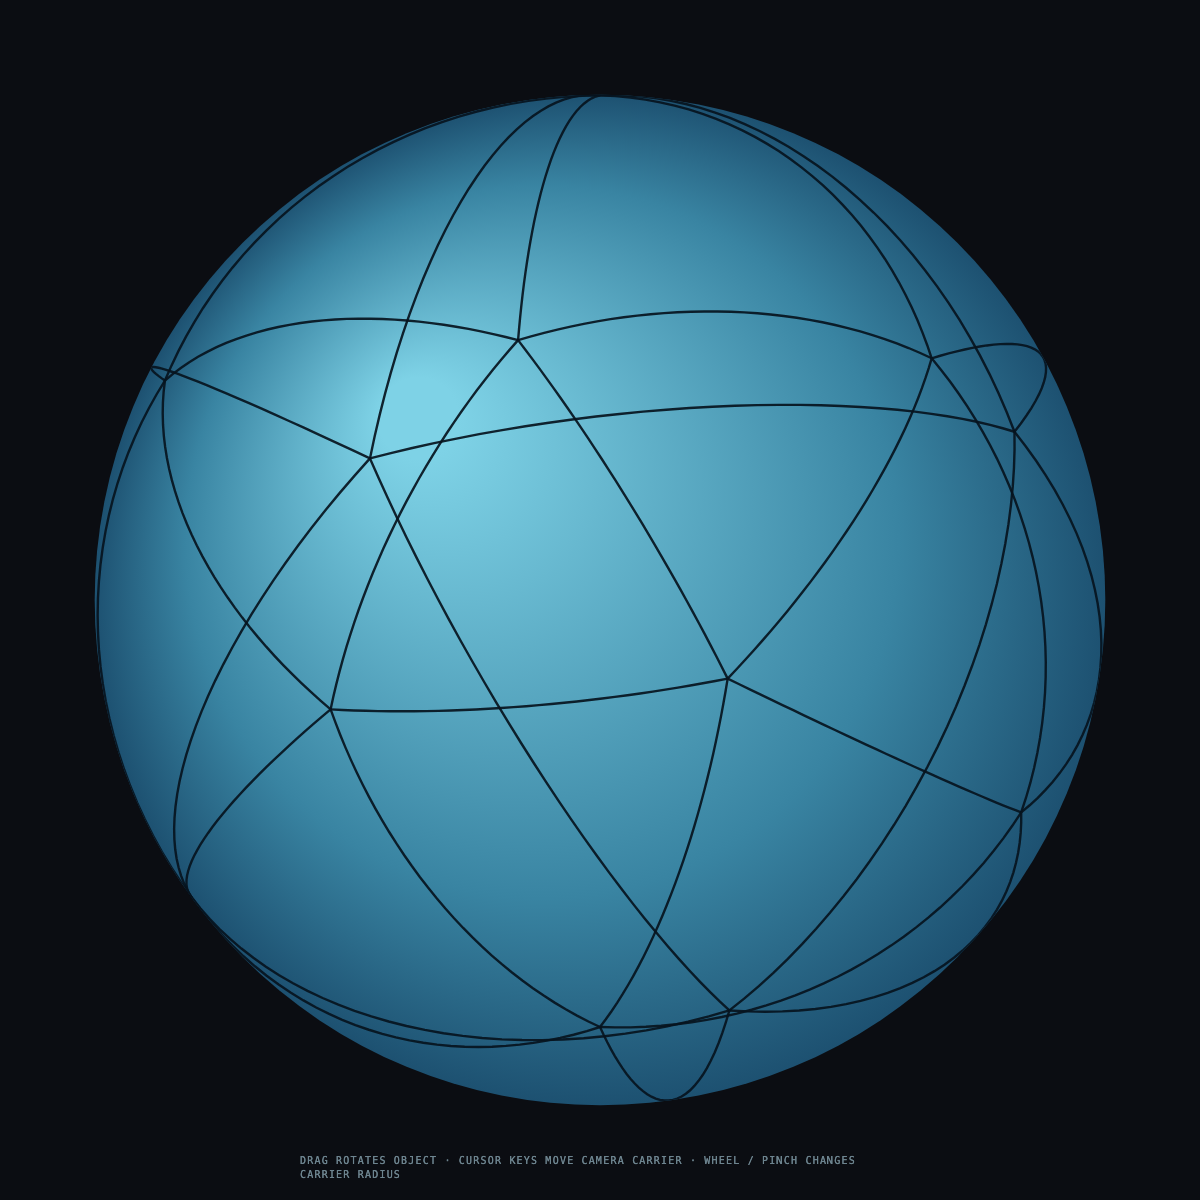
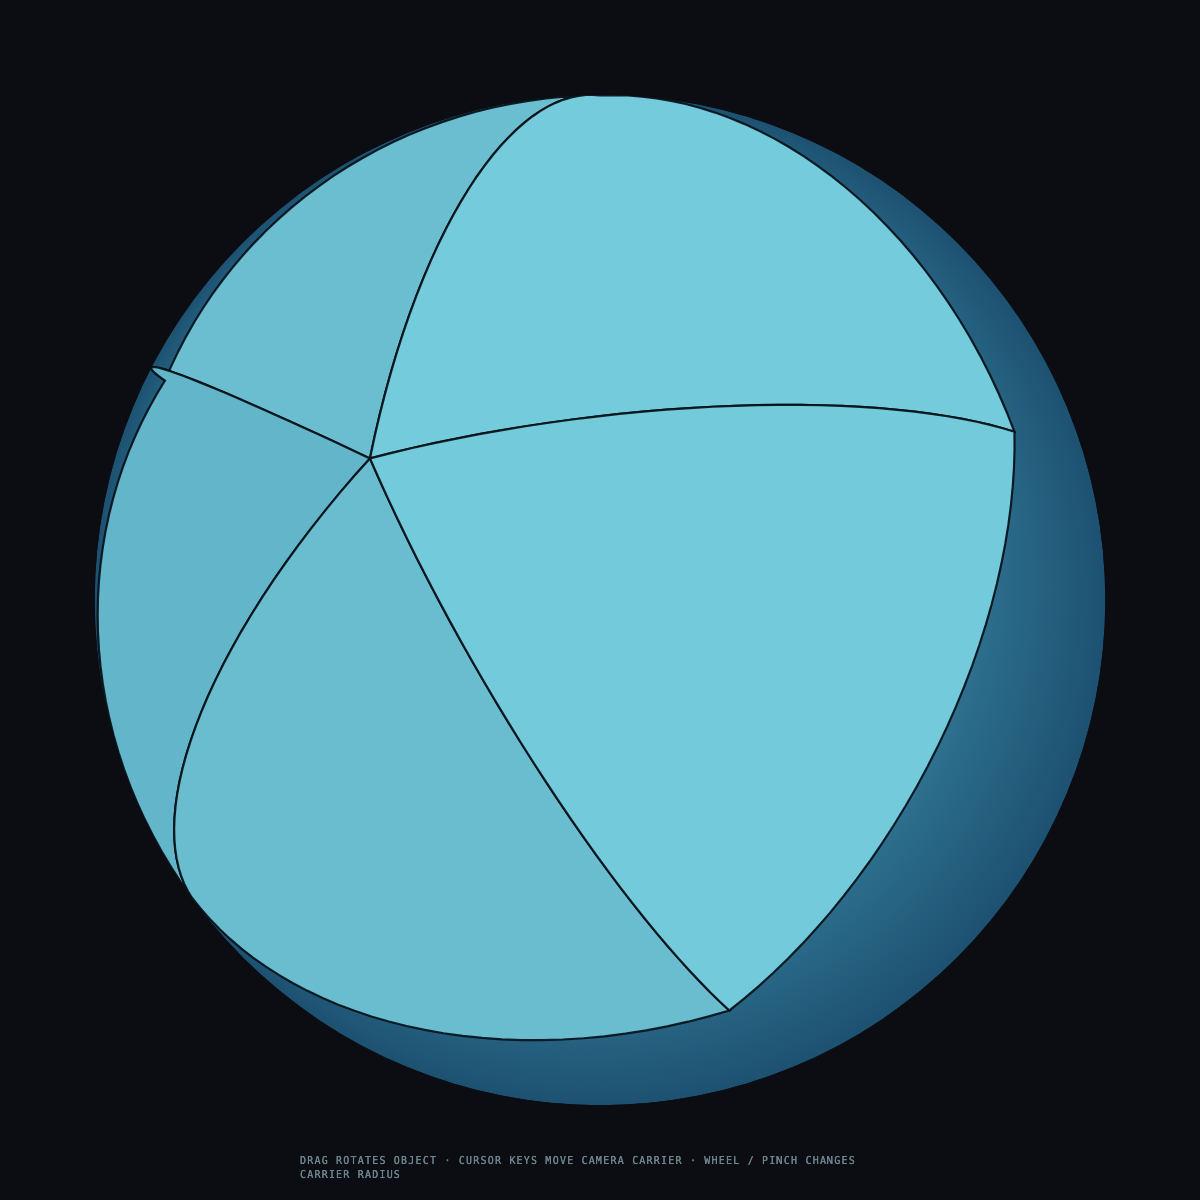
Front-facing solid spherical faces with silhouette mask

diff --git a/public/js/icosahedron-viewer.js b/public/js/icosahedron-viewer.js
@@ -92,7 +92,6 @@ function draw() {
 
   const cx = W / 2;
   const cy = H / 2;
-  // Exact projected silhouette radius for a unit sphere at camera.distance.
   const d = camera.distance;
   const radius = Math.min(W, H) * SPHERE_SCREEN_FRACTION * (d / Math.sqrt(Math.max(1e-6, d * d - 1)));
   const sphere = ctx.createRadialGradient(cx - radius * 0.36, cy - radius * 0.36, radius * 0.08, cx, cy, radius);
@@ -104,37 +103,62 @@ function draw() {
   ctx.arc(cx, cy, radius, 0, Math.PI * 2);
   ctx.fill();
 
-  ctx.save();
-  ctx.beginPath();
-  ctx.arc(cx, cy, radius, 0, Math.PI * 2);
-  ctx.clip();
-  ctx.strokeStyle = 'rgba(7,20,30,0.92)';
-  ctx.lineWidth = 2.4;
-  const edgeSet = new Set();
-  for (const [ia, ib, ic] of faces) {
-    for (const [a, b] of [[ia, ib], [ib, ic], [ic, ia]]) {
-      const key = a < b ? `${a}:${b}` : `${b}:${a}`;
-      if (edgeSet.has(key)) continue;
-      edgeSet.add(key);
-      const p = vecNorm(qRotateVec(objectQ, vertices[a]));
-      const q = vecNorm(qRotateVec(objectQ, vertices[b]));
-      ctx.beginPath();
-      for (let i = 0; i <= 32; i += 1) {
+  const camPos = vecMul(vecNorm(camera.viewAxis()), camera.distance);
+  const drawFaces = [];
+  for (let fi = 0; fi < faces.length; fi += 1) {
+    const [ia, ib, ic] = faces[fi];
+    const A = vecNorm(qRotateVec(objectQ, vertices[ia]));
+    const B = vecNorm(qRotateVec(objectQ, vertices[ib]));
+    const C = vecNorm(qRotateVec(objectQ, vertices[ic]));
+    const centroid = vecNorm(vecAdd(vecAdd(A, B), C));
+    let normal = vecNorm(vecCross(vecSub(B, A), vecSub(C, A)));
+    if (vecDot(normal, centroid) < 0) normal = vecMul(normal, -1);
+    // Back-face culling in world space; skip faces that cross the silhouette.
+    if (vecDot(normal, vecSub(camPos, centroid)) <= 0) continue;
+    if (!camera.project(A).visible || !camera.project(B).visible || !camera.project(C).visible) continue;
+    const points = [];
+    for (const [p, q] of [[A, B], [B, C], [C, A]]) {
+      for (let i = 0; i < 32; i += 1) {
         const t = i / 32;
-        const d = Math.max(-1, Math.min(1, vecDot(p, q)));
-        const theta = Math.acos(d) * t;
+        const dot = Math.max(-1, Math.min(1, vecDot(p, q)));
+        const theta = Math.acos(dot) * t;
         const sin = Math.sin(theta);
-        const r = vecSub(q, vecMul(p, d));
+        const r = vecSub(q, vecMul(p, dot));
         const rl = Math.hypot(r.x, r.y, r.z) || 1;
         const v = vecNorm(vecAdd(vecMul(p, Math.cos(theta)), vecMul(r, sin / rl)));
-        const pr = camera.project(v);
-        if (i === 0) ctx.moveTo(pr.x, pr.y);
-        else ctx.lineTo(pr.x, pr.y);
+        points.push(camera.project(v));
       }
-      ctx.stroke();
     }
+    const depth = camera.project(centroid).z;
+    const light = 0.55 + 0.45 * Math.max(0, Math.min(1, vecDot(normal, vecNorm({ x: -0.35, y: 0.55, z: 0.76 }))));
+    drawFaces.push({ points, depth, fi, light });
   }
+  drawFaces.sort((a, b) => a.depth - b.depth);
+  for (const face of drawFaces) {
+    const r = Math.round(42 + 76 * face.light);
+    const g = Math.round(106 + 100 * face.light);
+    const b = Math.round(136 + 86 * face.light);
+    ctx.beginPath();
+    ctx.moveTo(face.points[0].x, face.points[0].y);
+    for (let i = 1; i < face.points.length; i += 1) ctx.lineTo(face.points[i].x, face.points[i].y);
+    ctx.closePath();
+    ctx.globalAlpha = 1;
+    ctx.fillStyle = `rgb(${r},${g},${b})`;
+    ctx.fill();
+    ctx.strokeStyle = 'rgba(6,16,24,0.92)';
+    ctx.lineWidth = 2.2;
+    ctx.stroke();
+  }
+
+  // Hard silhouette mask: no face fill or edge can exist outside the sphere.
+  ctx.save();
+  ctx.globalCompositeOperation = 'destination-in';
+  ctx.beginPath();
+  ctx.arc(cx, cy, radius, 0, Math.PI * 2);
+  ctx.fillStyle = '#000';
+  ctx.fill();
   ctx.restore();
+  ctx.globalCompositeOperation = 'source-over';
 }
 
 function frame(now) {
